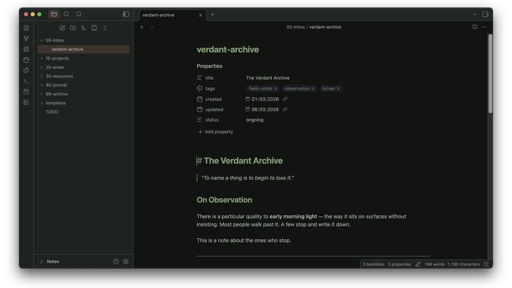
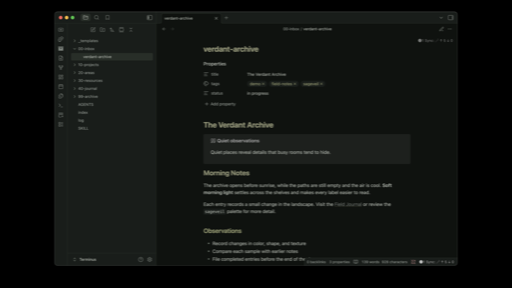
docs(obsidian): refresh theme preview

diff --git a/packages/ports/obsidian/demo/verdant-archive.md b/packages/ports/obsidian/demo/verdant-archive.md
@@ -1,55 +1,37 @@
 ---
 title: The Verdant Archive
-tags: [field-notes, observation, lichen]
-created: 2026-03-01
-updated: 2026-03-06
-status: ongoing
+tags: [demo, field-notes, sageveil]
+status: in progress
 ---
 
 # The Verdant Archive
 
-> _"To name a thing is to begin to lose it."_
+> [!quote] Quiet observations
+> Quiet places reveal details that busy rooms tend to hide.
 
-## On Observation
+## Morning Notes
 
-There is a particular quality to **early morning light** — the way it sits on surfaces without insisting. Most people walk past it. A few stop and write it down.
+The archive opens before sunrise, while the paths are still empty and the air is cool. **Soft morning light** settles across the shelves and makes every label easier to read.
 
-This is a note about the ones who stop.
+Each entry records a small change in the landscape. Visit the [[Field Journal]] or review the `sageveil` palette for more detail.
 
----
+### Observations
 
-## Field Notes
+- Record changes in color, shape, and texture
+- Compare each sample with earlier notes
+- File completed entries before the end of the day
 
-- Lichen grows _toward_ nothing; it simply grows
-- The colour of still water is not blue — it is the colour of whatever is above it
-- **Fog** is not the absence of a view; it is a view of absence
+| Specimen | Location | Status |
+| --- | --- | --- |
+| Lichen | North wall | Cataloged |
+| Moss | River path | Pending |
+| Fern | Lower grove | Observed |
 
-### Species Encountered
+## Tasks
 
-| Name              | Notes                          |
-| ----------------- | ------------------------------ |
-| Usnea barbata     | beard lichen, north-facing oak |
-| Marchantia sp.    | liverwort, damp stone wall     |
-| Cladonia uncialis | reindeer lichen, open heath    |
+- [x] Record the morning light
+- [ ] Catalog the remaining samples
+- [ ] Return before dusk
 
----
-
-## A Small Script
-
-```python
-def veil(n: int) -> list[int]:
-    """Return the shadow sequence up to n."""
-    return [x for x in range(n) if x % 3 != 0]
-```
-
----
-
-## Unresolved
-
-- [ ] Identify the grey-green at grid ref SE 402 817
-- [x] Cross-reference with [[Pale Atlas, Vol. II]]
-- [ ] Ask R. about the moss on the lychgate
-
----
-
-_Last updated: [[2026-03-06]]_
+> [!tip]
+> Small details become visible when everything else grows quiet.
